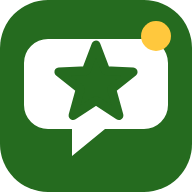
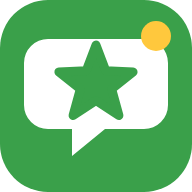
Green theme: lighter, more playful greens
Claude-Session: https://claude.ai/code/session_017zSuP4CPbk8PhWXcpQ5m43

diff --git a/docs/quizzes/assets/quiz.css b/docs/quizzes/assets/quiz.css
@@ -69,16 +69,16 @@
 /* Green theme (collection.json "theme": "green"): palette only. Set as data-theme on <html>, or on a single
    card so a green collection is tinted on the purple index. Contrast checked: text >= 4.5:1, borders >= 3:1. */
 [data-theme="green"] {
-  --bg: #eef8e6;
-  --blob-a: #fbe9a0;
-  --blob-b: #d3f0e2;
-  --ink: #12301c;
-  --ink-soft: #3d5a45;
-  --edge: #12301c;
-  --shade: #12301c;
-  --primary: #256b1f;
+  --bg: #e6f7d4;
+  --blob-a: #ffe58a;
+  --blob-b: #bdeccb;
+  --ink: #173d1f;
+  --ink-soft: #2f5a36;
+  --edge: #2e7d32;
+  --shade: #2e7d32;
+  --primary: #2e7d32;
   --accent: #ffc83d;
-  --select-bg: #dcefc8;
+  --select-bg: #d2f0b0;
 }
 
 @media (prefers-color-scheme: dark) {

diff --git a/src/quizgen/static/quiz.css b/src/quizgen/static/quiz.css
@@ -69,16 +69,16 @@
 /* Green theme (collection.json "theme": "green"): palette only. Set as data-theme on <html>, or on a single
    card so a green collection is tinted on the purple index. Contrast checked: text >= 4.5:1, borders >= 3:1. */
 [data-theme="green"] {
-  --bg: #eef8e6;
-  --blob-a: #fbe9a0;
-  --blob-b: #d3f0e2;
-  --ink: #12301c;
-  --ink-soft: #3d5a45;
-  --edge: #12301c;
-  --shade: #12301c;
-  --primary: #256b1f;
+  --bg: #e6f7d4;
+  --blob-a: #ffe58a;
+  --blob-b: #bdeccb;
+  --ink: #173d1f;
+  --ink-soft: #2f5a36;
+  --edge: #2e7d32;
+  --shade: #2e7d32;
+  --primary: #2e7d32;
   --accent: #ffc83d;
-  --select-bg: #dcefc8;
+  --select-bg: #d2f0b0;
 }
 
 @media (prefers-color-scheme: dark) {

diff --git a/docs/quizzes/for-fun/index.html b/docs/quizzes/for-fun/index.html
@@ -10,7 +10,7 @@
 <link rel="manifest" href="manifest.webmanifest">
 <link rel="icon" type="image/png" sizes="192x192" href="../assets/green-icon-192.png">
 <link rel="apple-touch-icon" href="../assets/green-apple-touch-icon.png">
-<meta name="theme-color" content="#256b1f">
+<meta name="theme-color" content="#3aa04a">
 <meta name="apple-mobile-web-app-title" content="Fun Quizzes">
 </head>
 <body class="index">

diff --git a/docs/quizzes/for-fun/brooklyn-nine-nine.html b/docs/quizzes/for-fun/brooklyn-nine-nine.html
@@ -10,7 +10,7 @@
 <link rel="manifest" href="manifest.webmanifest">
 <link rel="icon" type="image/png" sizes="192x192" href="../assets/green-icon-192.png">
 <link rel="apple-touch-icon" href="../assets/green-apple-touch-icon.png">
-<meta name="theme-color" content="#256b1f">
+<meta name="theme-color" content="#3aa04a">
 <meta name="apple-mobile-web-app-title" content="Fun Quizzes">
 </head>
 <body>

diff --git a/docs/quizzes/for-fun/doctor-who.html b/docs/quizzes/for-fun/doctor-who.html
@@ -10,7 +10,7 @@
 <link rel="manifest" href="manifest.webmanifest">
 <link rel="icon" type="image/png" sizes="192x192" href="../assets/green-icon-192.png">
 <link rel="apple-touch-icon" href="../assets/green-apple-touch-icon.png">
-<meta name="theme-color" content="#256b1f">
+<meta name="theme-color" content="#3aa04a">
 <meta name="apple-mobile-web-app-title" content="Fun Quizzes">
 </head>
 <body>

diff --git a/docs/quizzes/for-fun/jurassic-park.html b/docs/quizzes/for-fun/jurassic-park.html
@@ -10,7 +10,7 @@
 <link rel="manifest" href="manifest.webmanifest">
 <link rel="icon" type="image/png" sizes="192x192" href="../assets/green-icon-192.png">
 <link rel="apple-touch-icon" href="../assets/green-apple-touch-icon.png">
-<meta name="theme-color" content="#256b1f">
+<meta name="theme-color" content="#3aa04a">
 <meta name="apple-mobile-web-app-title" content="Fun Quizzes">
 </head>
 <body>

diff --git a/docs/quizzes/for-fun/legends-of-tomorrow.html b/docs/quizzes/for-fun/legends-of-tomorrow.html
@@ -10,7 +10,7 @@
 <link rel="manifest" href="manifest.webmanifest">
 <link rel="icon" type="image/png" sizes="192x192" href="../assets/green-icon-192.png">
 <link rel="apple-touch-icon" href="../assets/green-apple-touch-icon.png">
-<meta name="theme-color" content="#256b1f">
+<meta name="theme-color" content="#3aa04a">
 <meta name="apple-mobile-web-app-title" content="Fun Quizzes">
 </head>
 <body>

diff --git a/docs/quizzes/for-fun/marvelous-mrs-maisel.html b/docs/quizzes/for-fun/marvelous-mrs-maisel.html
@@ -10,7 +10,7 @@
 <link rel="manifest" href="manifest.webmanifest">
 <link rel="icon" type="image/png" sizes="192x192" href="../assets/green-icon-192.png">
 <link rel="apple-touch-icon" href="../assets/green-apple-touch-icon.png">
-<meta name="theme-color" content="#256b1f">
+<meta name="theme-color" content="#3aa04a">
 <meta name="apple-mobile-web-app-title" content="Fun Quizzes">
 </head>
 <body>

diff --git a/docs/quizzes/for-fun/ninjago.html b/docs/quizzes/for-fun/ninjago.html
@@ -10,7 +10,7 @@
 <link rel="manifest" href="manifest.webmanifest">
 <link rel="icon" type="image/png" sizes="192x192" href="../assets/green-icon-192.png">
 <link rel="apple-touch-icon" href="../assets/green-apple-touch-icon.png">
-<meta name="theme-color" content="#256b1f">
+<meta name="theme-color" content="#3aa04a">
 <meta name="apple-mobile-web-app-title" content="Fun Quizzes">
 </head>
 <body>

diff --git a/docs/quizzes/for-fun/star-wars.html b/docs/quizzes/for-fun/star-wars.html
@@ -10,7 +10,7 @@
 <link rel="manifest" href="manifest.webmanifest">
 <link rel="icon" type="image/png" sizes="192x192" href="../assets/green-icon-192.png">
 <link rel="apple-touch-icon" href="../assets/green-apple-touch-icon.png">
-<meta name="theme-color" content="#256b1f">
+<meta name="theme-color" content="#3aa04a">
 <meta name="apple-mobile-web-app-title" content="Fun Quizzes">
 </head>
 <body>

diff --git a/tests/test_build_site.py b/tests/test_build_site.py
@@ -679,7 +679,7 @@ def test_green_collection_pages_use_the_green_theme(tmp_path):
     for page in ("fun/index.html", "fun/game.html"):
         text = read(out / page)
         assert '<html lang="en" data-theme="green">' in text, page
-        assert '<meta name="theme-color" content="#256b1f">' in text, page
+        assert '<meta name="theme-color" content="#3aa04a">' in text, page
         assert "../assets/green-icon-192.png" in hrefs(out / page) and "../assets/green-apple-touch-icon.png" in hrefs(out / page)
     tinted = '<li class="card card--collection" data-theme="green">'
     for page in ("index.html", "loose.html", "school/index.html", "school/maths.html"):
@@ -696,7 +696,7 @@ def test_unlisted_green_collection_app_is_green(tmp_path):
     out = tmp_path / "out"
     assert build_site(themed_tree(tmp_path, unlisted=True), out).output
     manifest = json.loads(read(out / "fun" / "manifest.webmanifest"))
-    assert manifest["theme_color"] == manifest["background_color"] == "#256b1f"
+    assert manifest["theme_color"] == manifest["background_color"] == "#3aa04a"
     assert [i["src"] for i in manifest["icons"]] == ["../assets/green-icon-192.png", "../assets/green-icon-512.png",
                                                      "../assets/green-icon-maskable-512.png"]
     assert "Fun" not in read(out / "index.html")  # still not listed

diff --git a/src/quizgen/build.py b/src/quizgen/build.py
@@ -25,7 +25,7 @@ MAX_TOTAL_IMAGE_BYTES = 20 * 1024 * 1024  # all inlined images together, repeats
 QUIZ_CSP = ("default-src 'none'; script-src 'self'; style-src 'self'; img-src 'self' data: https:; "
             "font-src 'self'; manifest-src 'self'; base-uri 'none'; form-action 'none'")
 # Colour themes (D33): browser bar / splash colour and the icon file prefix. scripts/app_icons.py draws the icons in the same colours.
-THEMES = {"purple": {"color": "#5233e0", "icon_prefix": ""}, "green": {"color": "#256b1f", "icon_prefix": "green-"}}
+THEMES = {"purple": {"color": "#5233e0", "icon_prefix": ""}, "green": {"color": "#3aa04a", "icon_prefix": "green-"}}
 DEFAULT_THEME = "purple"
 FLAG_FONT = "flags.woff2"  # linked from quiz.css; site mode copies it to assets/, single files inline it
 
